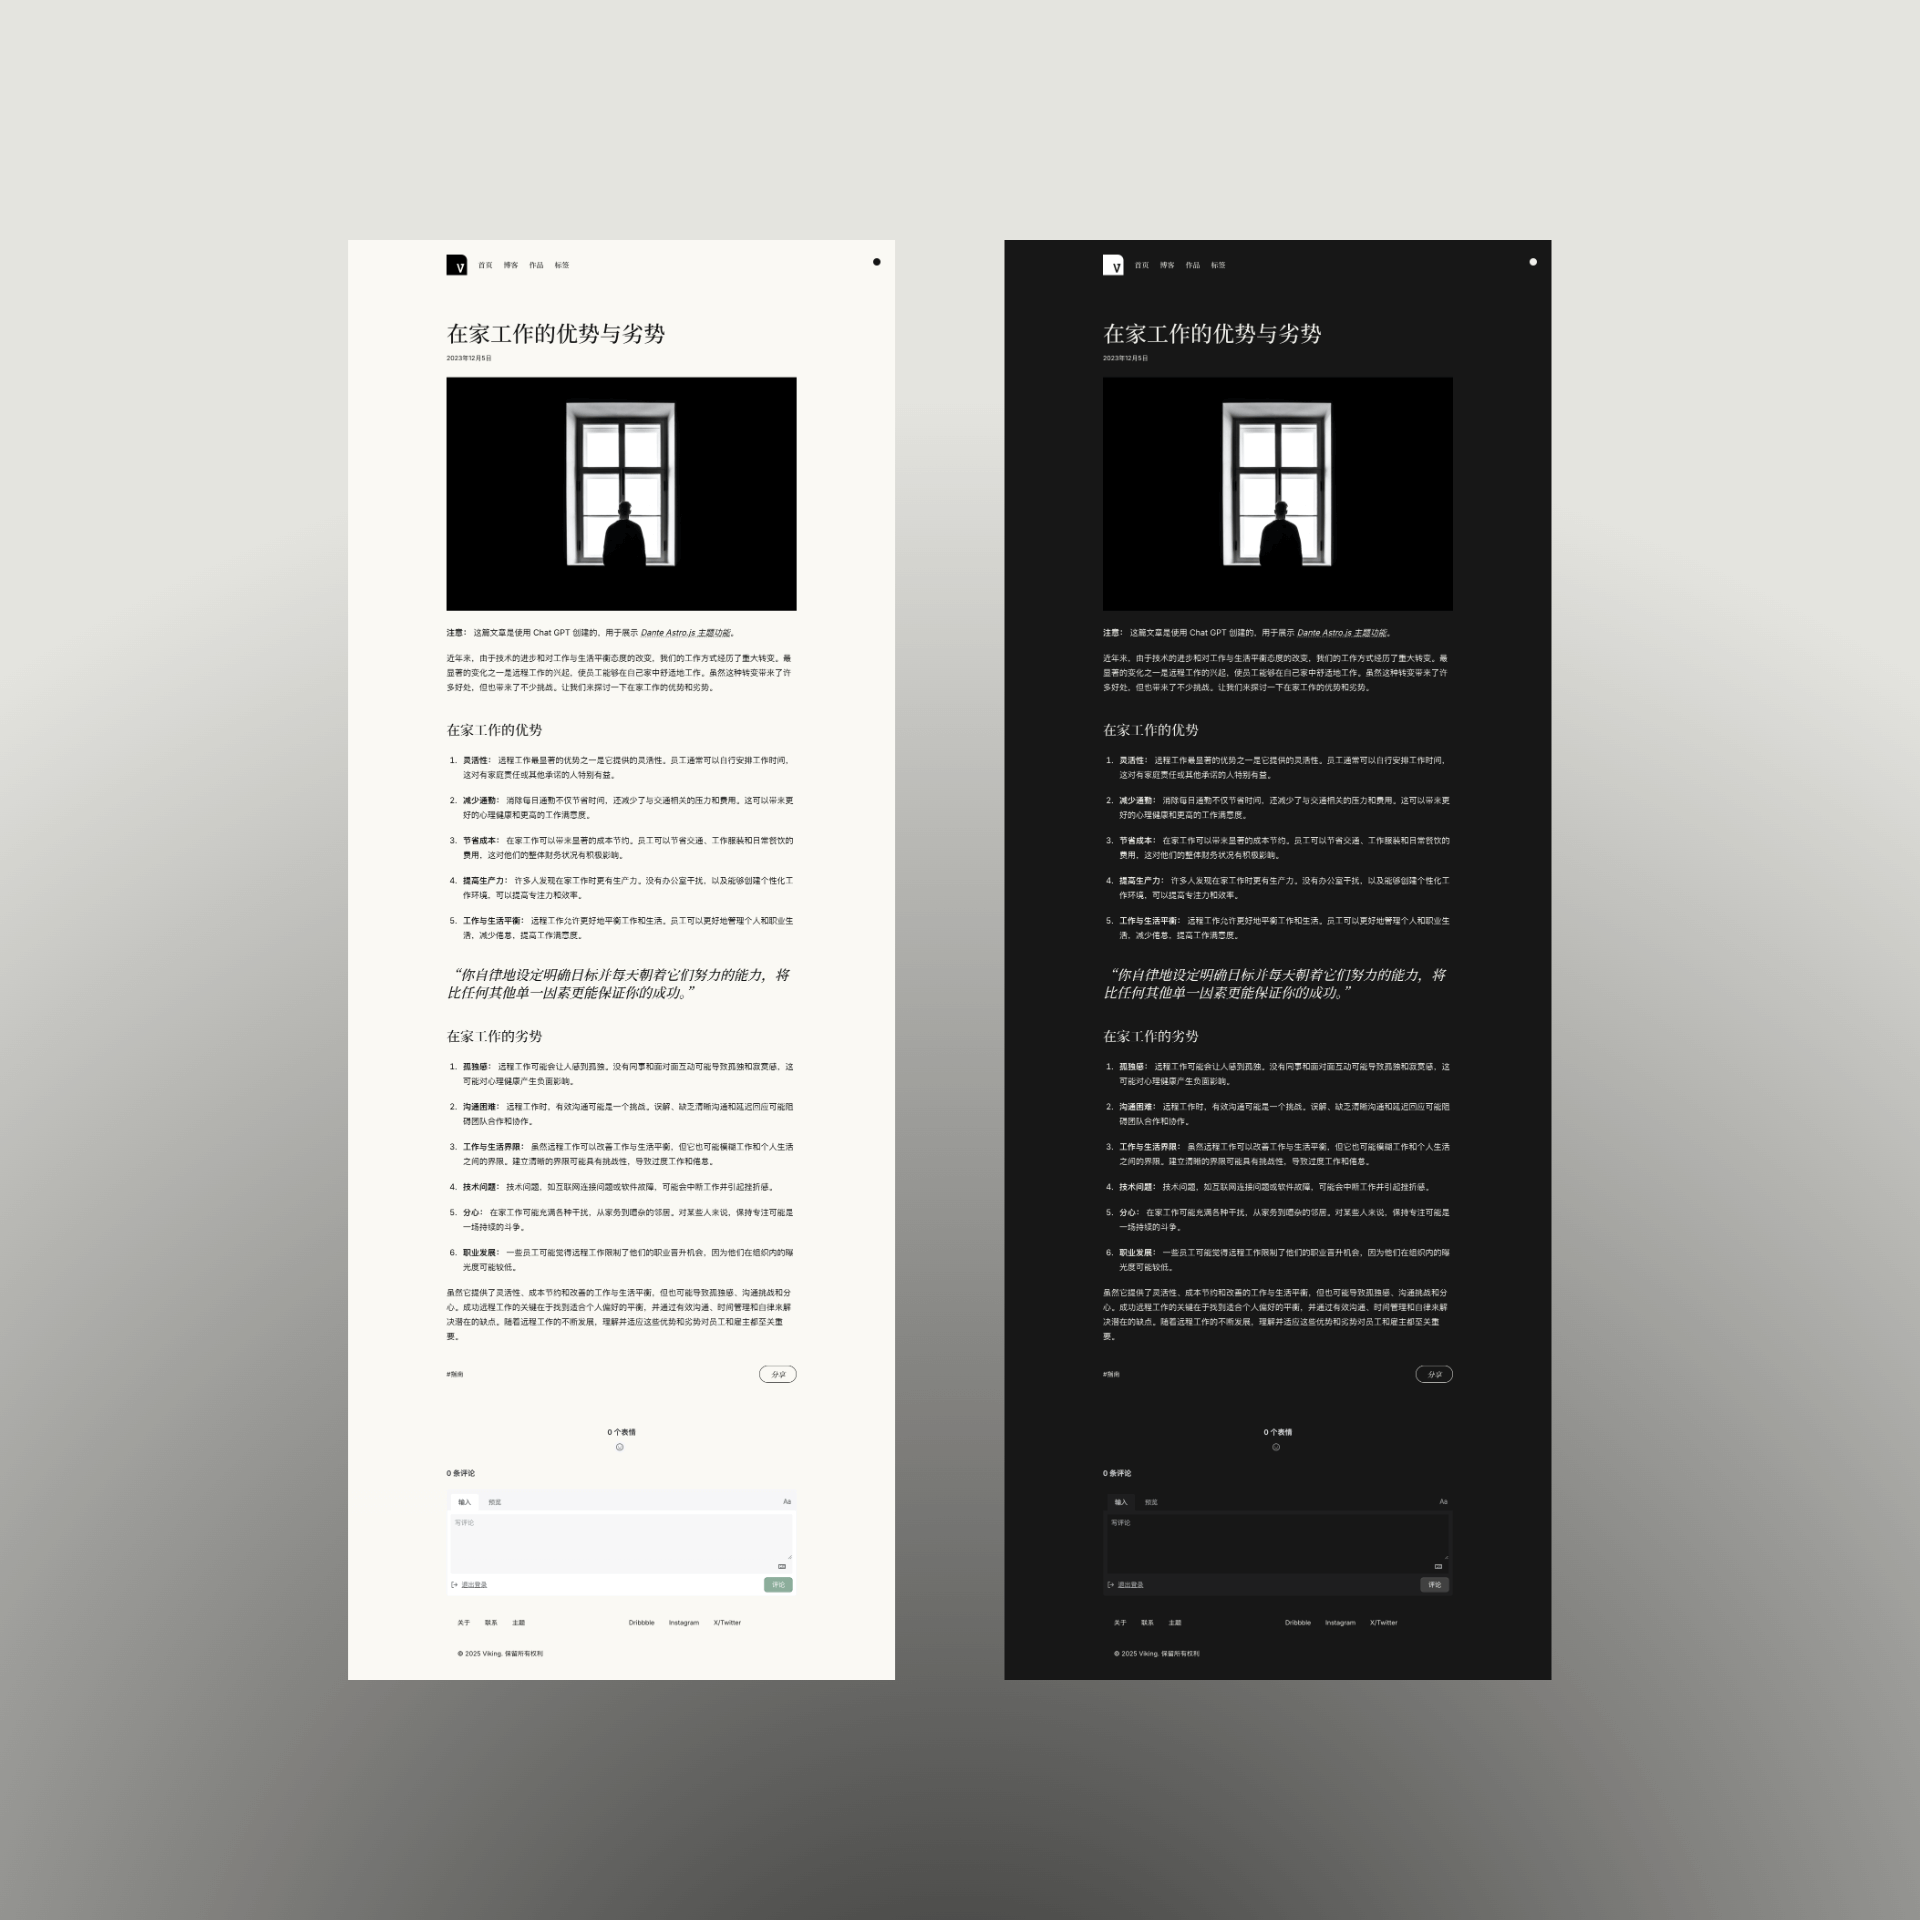
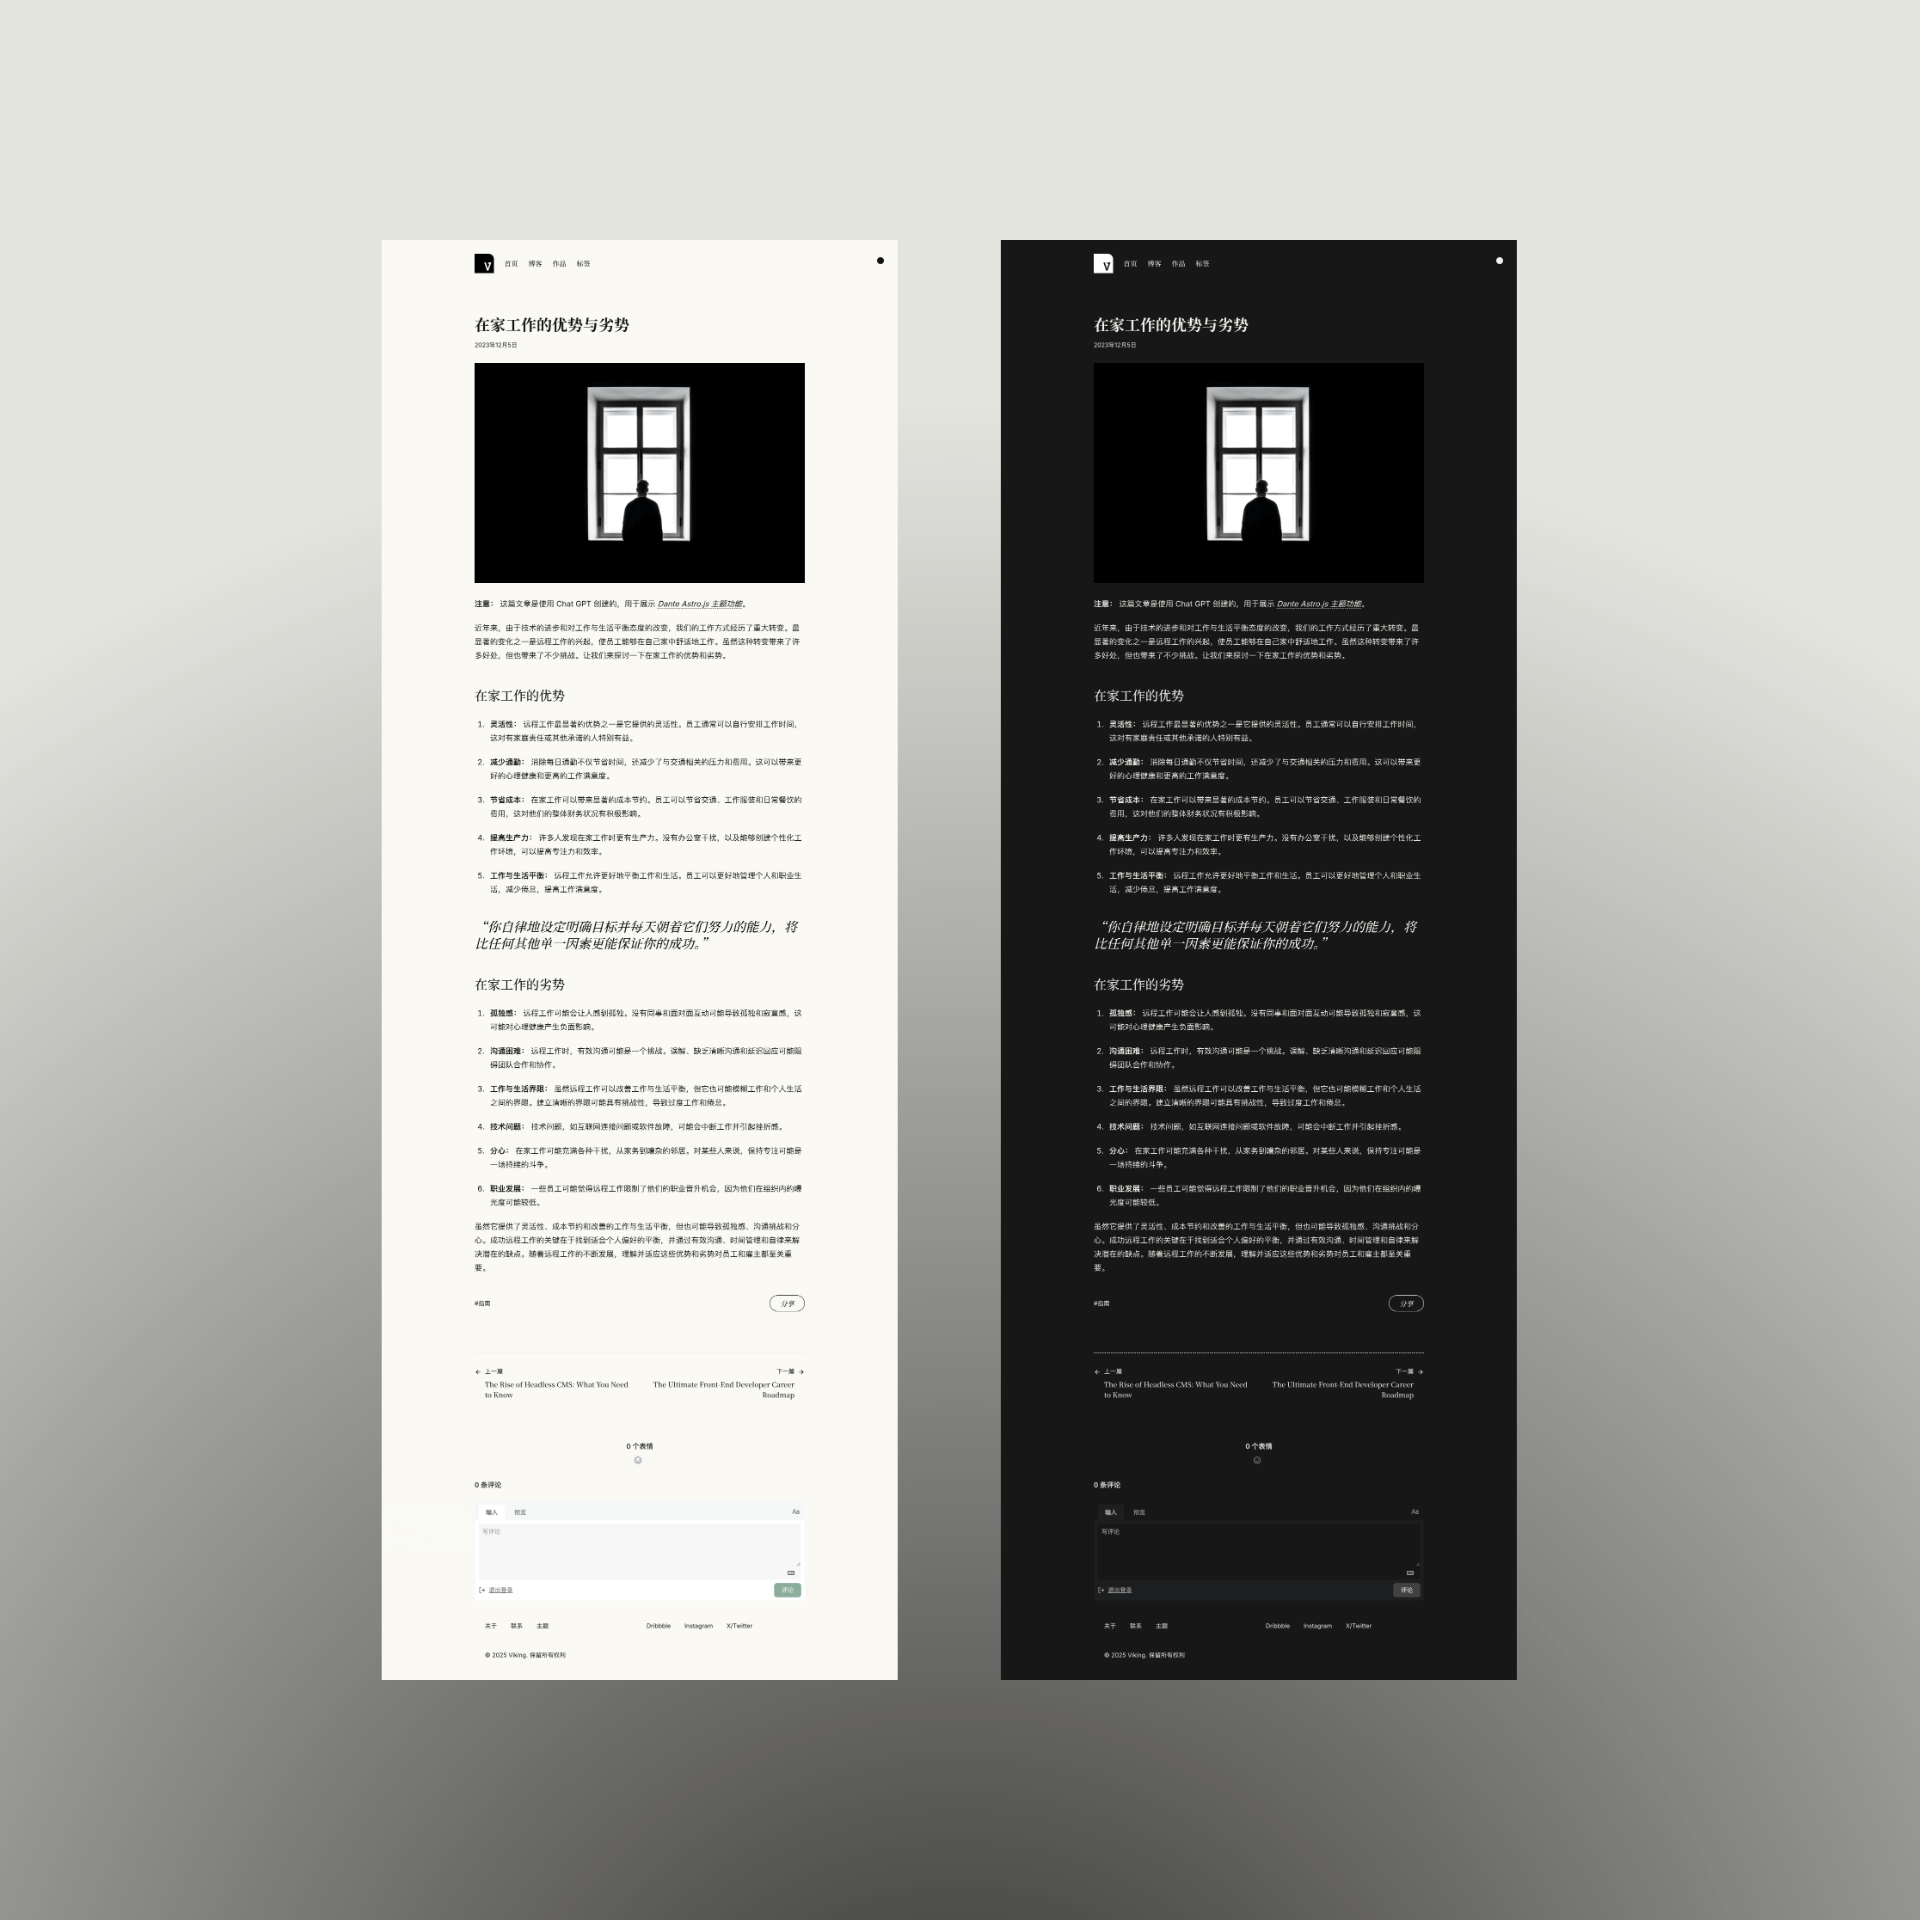
new style updates

diff --git a/src/i18n/ja-JP.ts b/src/i18n/ja-JP.ts
@@ -10,7 +10,10 @@ export default {
     },
     pages: {
         home: {
-            viewAllPosts: 'すべての記事を見る'
+            viewAllPosts: 'すべての記事を見る',
+            writing: '記事',
+            projects: 'プロジェクト',
+            viewAllProjects: 'すべてのプロジェクトを見る'
         },
         tags: {
             title: 'すべてのタグ',
@@ -27,7 +30,9 @@ export default {
             updated: '更新日',
             share: 'シェア',
             copyLink: 'リンクをコピー',
-            copied: 'コピーしました'
+            copied: 'コピーしました',
+            prevPost: '前の記事',
+            nextPost: '次の記事'
         },
         error: {
             title: '404 見つかりません',
@@ -38,7 +43,9 @@ export default {
         projects: {
             title: 'プロジェクト',
             description: '私の情熱と専門知識を紹介する多様なポートフォリオを探索する',
-            viewNext: '次を見る'
+            viewNext: '次を見る',
+            prevProject: '前のプロジェクト',
+            nextProject: '次のプロジェクト'
         }
     },
     components: {
@@ -52,6 +59,9 @@ export default {
         post: {
             readMore: '続きを読む',
             updated: '更新日'
+        },
+        project: {
+            viewProject: 'プロジェクトを見る'
         },
         date: {
             format: {

diff --git a/src/i18n/zh-CN.ts b/src/i18n/zh-CN.ts
@@ -10,7 +10,10 @@ export default {
     },
     pages: {
         home: {
-            viewAllPosts: '查看全部文章'
+            viewAllPosts: '查看全部文章',
+            writing: '文章',
+            projects: '作品',
+            viewAllProjects: '查看全部作品'
         },
         tags: {
             title: '所有标签',
@@ -27,7 +30,9 @@ export default {
             updated: '更新于',
             share: '分享',
             copyLink: '复制链接',
-            copied: '已复制'
+            copied: '已复制',
+            prevPost: '上一篇',
+            nextPost: '下一篇'
         },
         error: {
             title: '404 未找到',
@@ -38,7 +43,9 @@ export default {
         projects: {
             title: '作品',
             description: '探索展示我的热情和专业知识的作品集',
-            viewNext: '查看下一个'
+            viewNext: '查看下一个',
+            prevProject: '上一个项目',
+            nextProject: '下一个项目'
         }
     },
     components: {
@@ -52,6 +59,9 @@ export default {
         post: {
             readMore: '阅读更多',
             updated: '更新于'
+        },
+        project: {
+            viewProject: '查看项目'
         },
         date: {
             format: {

diff --git a/src/i18n/zh-TW.ts b/src/i18n/zh-TW.ts
@@ -10,7 +10,10 @@ export default {
     },
     pages: {
         home: {
-            viewAllPosts: '查看全部文章'
+            viewAllPosts: '查看全部文章',
+            writing: '文章',
+            projects: '作品',
+            viewAllProjects: '查看全部作品'
         },
         tags: {
             title: '所有標籤',
@@ -27,7 +30,9 @@ export default {
             updated: '更新於',
             share: '分享',
             copyLink: '複製連結',
-            copied: '已複製'
+            copied: '已複製',
+            prevPost: '上一篇',
+            nextPost: '下一篇'
         },
         error: {
             title: '404 未找到',
@@ -38,7 +43,9 @@ export default {
         projects: {
             title: '作品',
             description: '探索展示我的熱情和專業知識的作品集',
-            viewNext: '查看下一個'
+            viewNext: '查看下一個',
+            prevProject: '上一個專案',
+            nextProject: '下一個專案'
         }
     },
     components: {
@@ -52,6 +59,9 @@ export default {
         post: {
             readMore: '閱讀更多',
             updated: '更新於'
+        },
+        project: {
+            viewProject: '查看專案'
         },
         date: {
             format: {

diff --git a/src/i18n/en-US.ts b/src/i18n/en-US.ts
@@ -10,7 +10,10 @@ export default {
     },
     pages: {
         home: {
-            viewAllPosts: 'View All Posts'
+            viewAllPosts: 'View All Posts',
+            writing: 'Writing',
+            projects: 'Projects',
+            viewAllProjects: 'View All Projects'
         },
         tags: {
             title: 'All Tags',
@@ -27,7 +30,9 @@ export default {
             updated: 'Updated on',
             share: 'Share',
             copyLink: 'Copy link',
-            copied: 'Copied'
+            copied: 'Copied',
+            prevPost: 'Previous Post',
+            nextPost: 'Next Post'
         },
         error: {
             title: '404 Not Found',
@@ -38,7 +43,9 @@ export default {
         projects: {
             title: 'Projects',
             description: 'Explore a diverse portfolio showcasing my passion and expertise',
-            viewNext: 'View Next'
+            viewNext: 'View Next',
+            prevProject: 'Previous Project',
+            nextProject: 'Next Project'
         }
     },
     components: {
@@ -52,6 +59,9 @@ export default {
         post: {
             readMore: 'Read More',
             updated: 'Updated on'
+        },
+        project: {
+            viewProject: 'View Project'
         },
         date: {
             format: {
